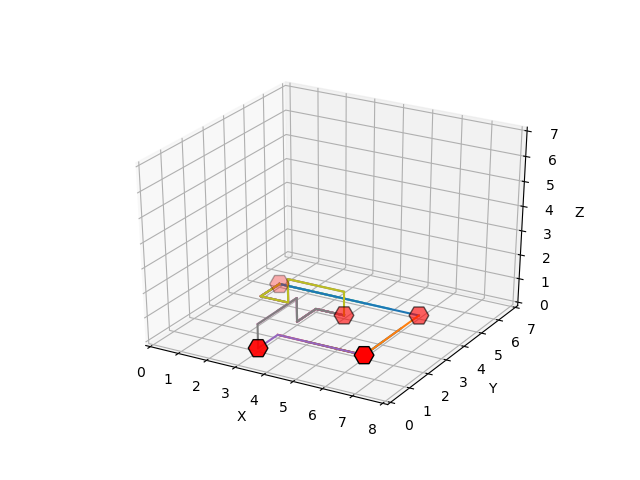
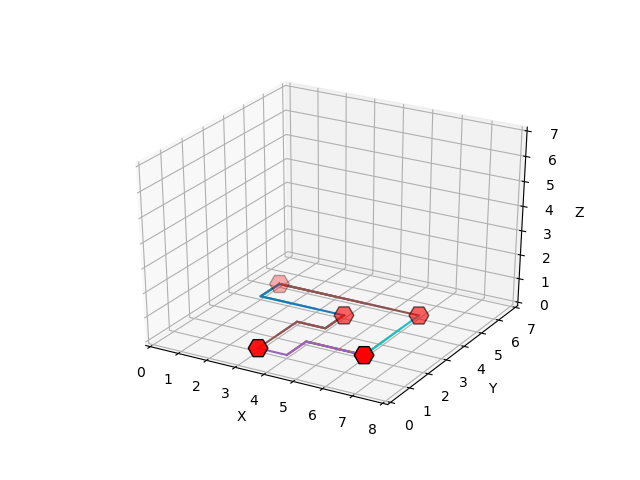
distance_to_gate

Changed region(s): [[0.4062, 0.5625, 0.6562, 0.75], [0.5938, 0.6875, 0.625, 0.7188]]

diff --git a/code/algorithms/PQ_astar_with_error.py b/code/algorithms/PQ_astar_with_error.py
@@ -6,6 +6,16 @@ def heuristic(current, end):
 
 	return heuristic
 
+def distance_to_gate(gates, current, start, end):
+	print(gates)
+	for gate in gates:
+		if heuristic(current, gate) == 1 and current != start and current != end:
+			h = heuristic(current, end) + 10
+		else:
+			h = heuristic(current, end)
+
+	return h
+
 def make_neighbours(grid, current, end):
 	""" Fill list with available neighbouring points. """
 	
@@ -28,7 +38,7 @@ def make_neighbours(grid, current, end):
 	return neighbours
 
 
-def astar(grid, start, end):
+def astar(gates, grid, start, end):
 	""" A* """
 	
 	Q = PriorityQueue()
@@ -44,7 +54,7 @@ def astar(grid, start, end):
 			return [(0, 0, 0)]
 
 		for neighbour in neighbours:
-			h = heuristic(neighbour, end)
+			h = distance_to_gate(gates, neighbour, start, end)
 
 			new_path = current_path + [neighbour]
 
@@ -61,13 +71,14 @@ def execute_astar(netlist, chip):
 	""" Execute astar function for all nets. """
 
 	grid = chip.grid
+	gates = chip.gates
 	output_dict = {}
 	count = 0
 
 	for net in netlist:
 		start = net[0]
 		end = net[1]
-		path = astar(grid, start, end)
+		path = astar(gates, grid, start, end)
 		count += 1
 		print(path)
 		print(count)

diff --git a/code/classes/wiring.py b/code/classes/wiring.py
@@ -13,7 +13,7 @@ import csv
 from code.algorithms.xyz_move import xyz_wire
 from code.algorithms.straight_first import straight_wire 
 from code.algorithms.random_netlist import random_wire 
-from code.algorithms.new_astar import execute_astar
+from code.algorithms.PQ_astar_with_error import execute_astar
 from code.algorithms.straight_random import straight_random_wire
 from code.algorithms.iddfs import execute_dfs
 

diff --git a/main.py b/main.py
@@ -75,7 +75,7 @@ if __name__ == '__main__':
 
 		else:
 			# calculate cost of the solution
-			cost = wires.cost(wires.wire[0])
+			cost = wires.cost(wires.wire)
 			print(f"The cost of this solution is {cost}\n")
 
 			# get the dimensions for the visual representation

diff --git a/code/classes/chip.py b/code/classes/chip.py
@@ -38,6 +38,15 @@ class Chip(object):
 		return gates
 
 
+	# def get_gates(self):
+	# 	gates = []
+		
+	# 	for gate in gates:
+	# 		gates.append(gate)
+		
+	# 	return gates
+
+
 	def create_grid(self, gates):
 		""" Create grid with gates. """
 
